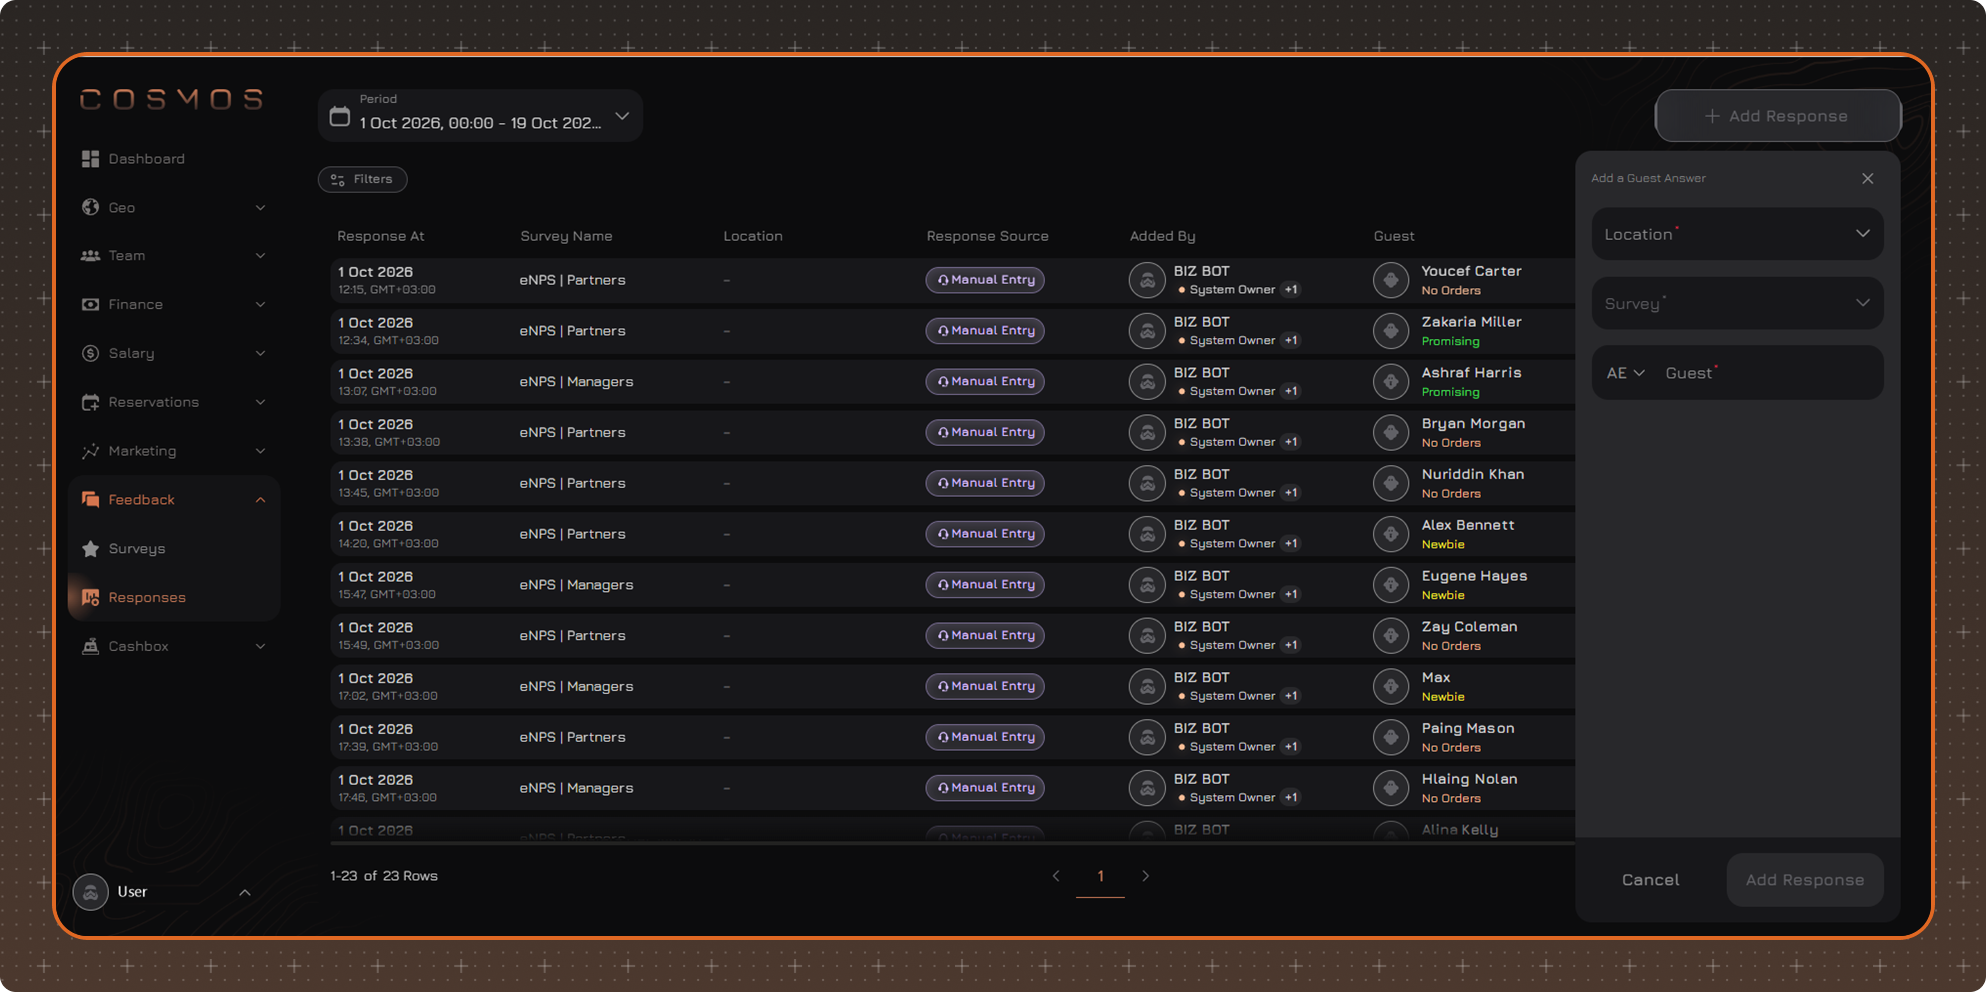
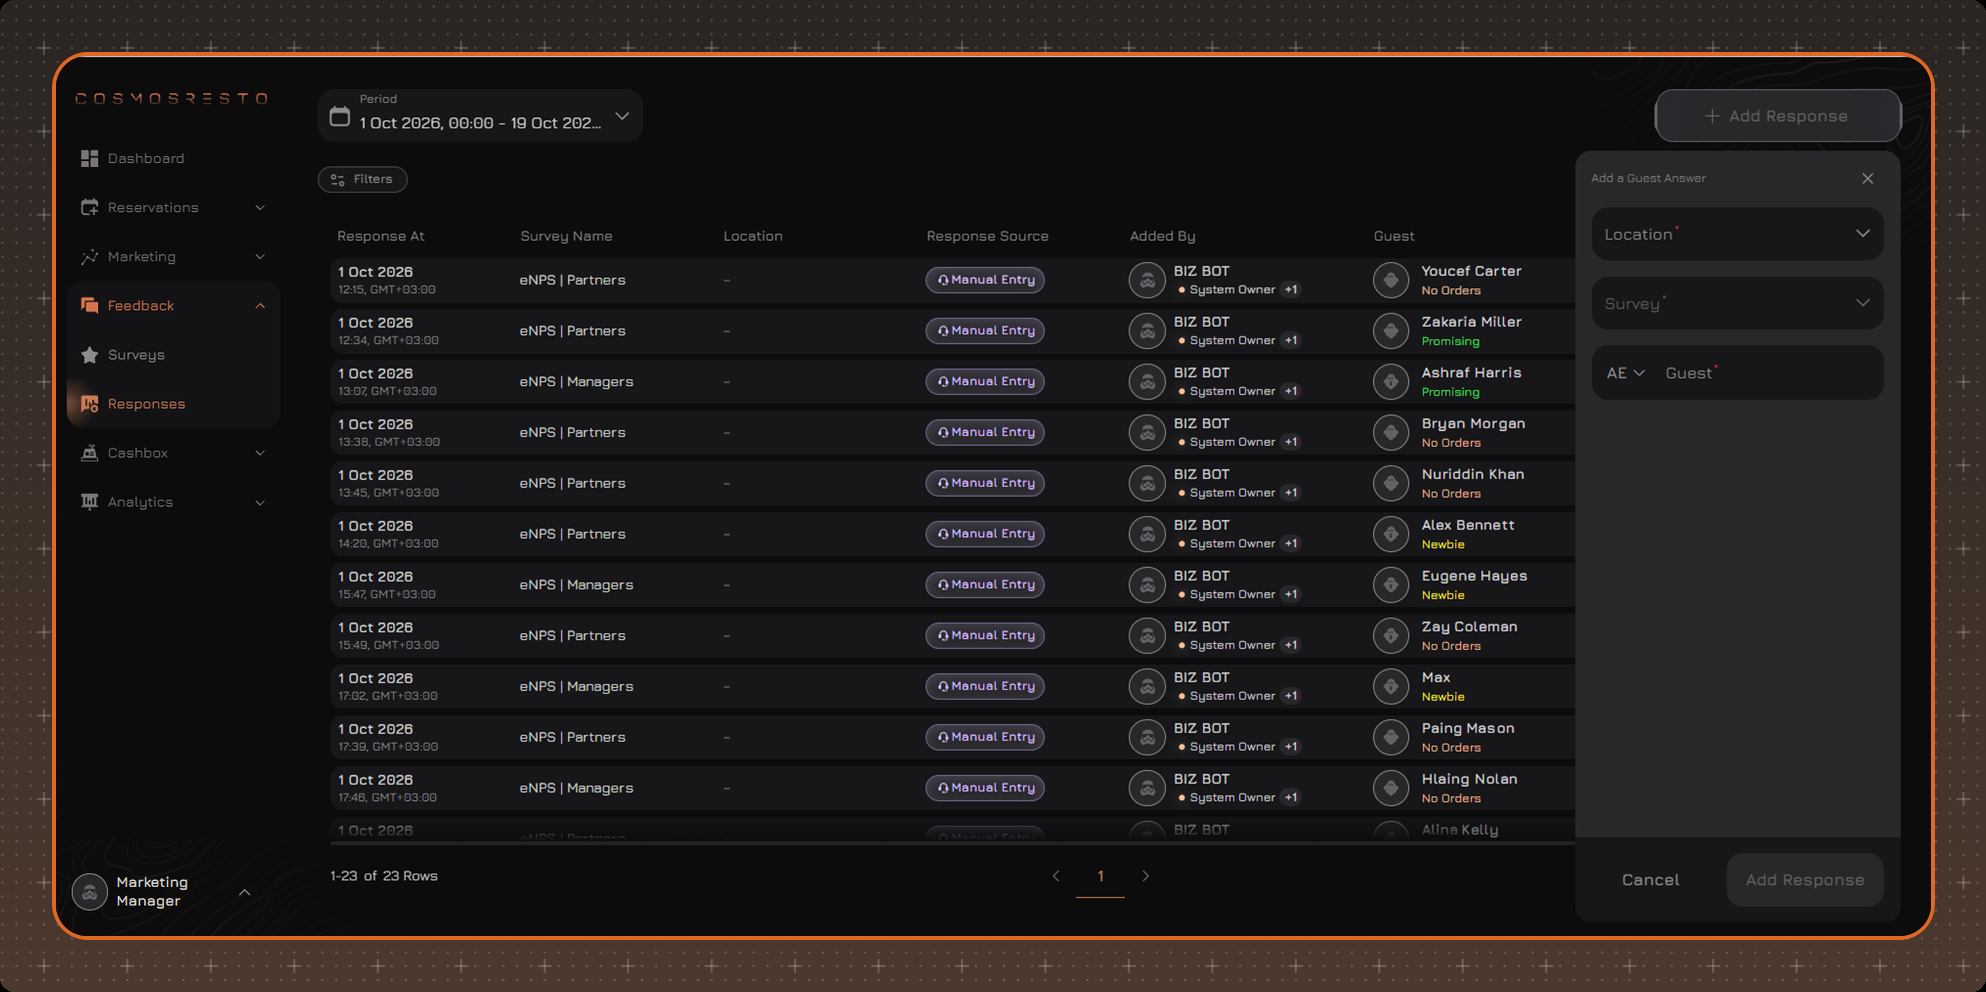
Ребрендинг: панель маркетолога на скринах «Ответов», логотип COSMOSRESTO на странице опроса, CosmosResto в тексте «Обратной связи»

diff --git a/content/ru/feedback/surveys/surveys-info.md b/content/ru/feedback/surveys/surveys-info.md
@@ -6,7 +6,7 @@ order: 1
 updatedAt: 2026-08-24
 ---
 
-**Опросы** помогают собирать обратную связь от гостей после визита, получать оценки и комментарии, а затем анализировать ответы в COSMOS.
+**Опросы** помогают собирать обратную связь от гостей после визита, получать оценки и комментарии, а затем анализировать ответы в CosmosResto.
 
 Опрос можно распространять по публичной ссылке или отправлять конкретным гостям через рассылки. Полученные ответы сохраняются в разделе **Ответы** и могут быть связаны с гостем, рассылкой и событием, после которого был отправлен опрос.
 

diff --git a/content/en/feedback/surveys/surveys-info.md b/content/en/feedback/surveys/surveys-info.md
@@ -6,7 +6,7 @@ order: 1
 updatedAt: 2026-08-24
 ---
 
-**Surveys** help you collect feedback from guests after a visit, obtain ratings and comments, and then analyze the responses in COSMOS.
+**Surveys** help you collect feedback from guests after a visit, obtain ratings and comments, and then analyze the responses in CosmosResto.
 
 A survey can be distributed via a public link or sent to specific guests through mailings. Received responses are saved in the **Responses** section and can be linked to the guest, the mailing, and the event after which the survey was sent.
 
